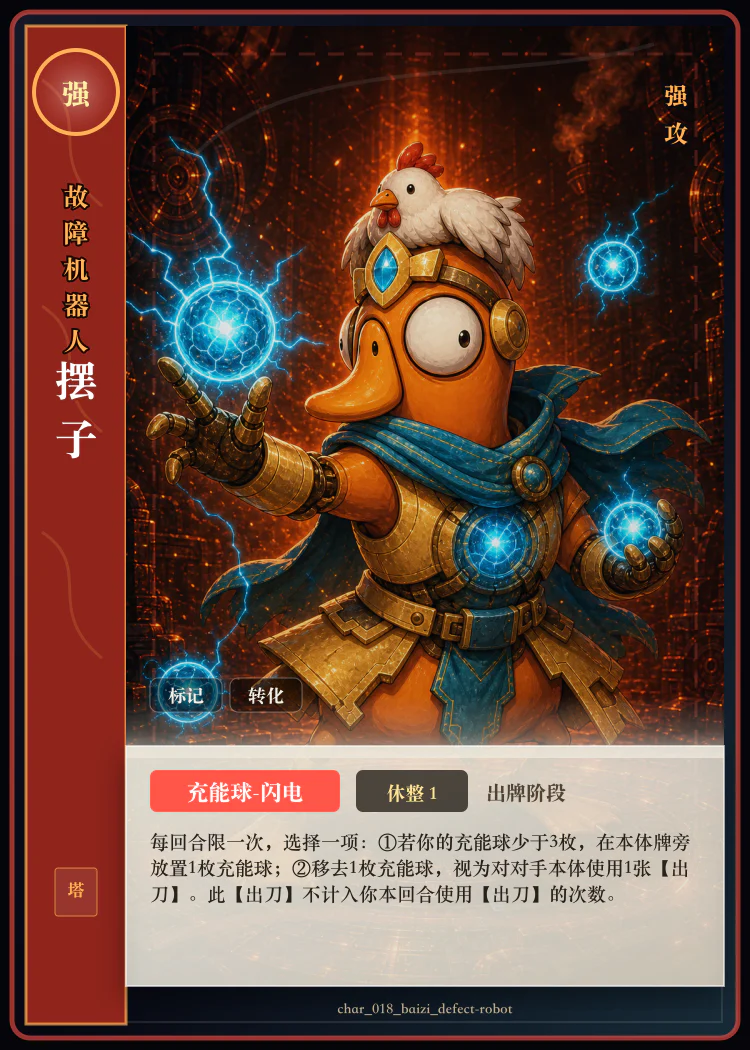
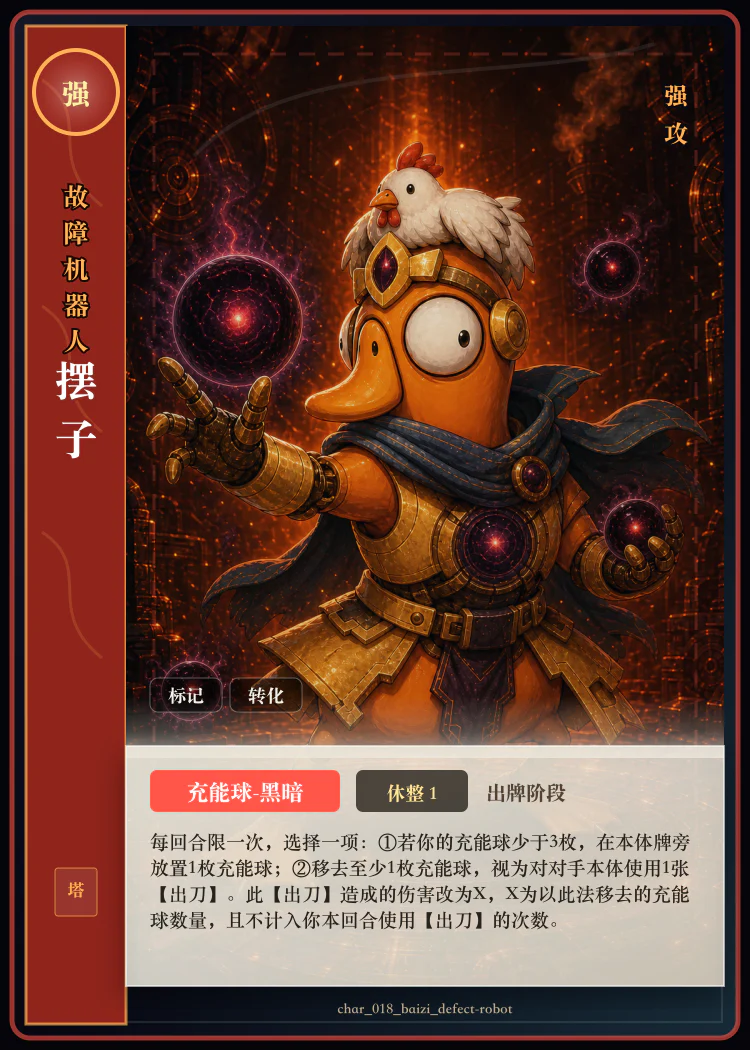
feat(cards): 重做故障机器人充能球体系

diff --git a/src/lib/deck-guides.ts b/src/lib/deck-guides.ts
@@ -64,10 +64,10 @@ export const deckGuides: Record<string, DeckGuide> = {
   },
   deck_trans_001: {
     title: "拟态补位路线",
-    flow: ["宣言转化", "积攒充能球", "激发闪电或等离子", "触发拟态核心", "Mega 后连续补位"],
+    flow: ["宣言转化", "积攒充能球", "激发黑暗或等离子", "触发拟态核心", "Mega 后连续补位"],
     priorities: [
       "优先保留能把牌视为其他牌使用或打出的角色，它们是临时补位链的起点。",
-      "三张故障机器人共享至多3枚充能球：没有合适目标时先充能，需要展开时再转化为减伤、虚拟【出刀】或技能降费。",
+      "三张故障机器人共享至多3枚充能球：没有合适目标时先充能，需要展开时再转化为减伤、蓄能黑暗【出刀】或技能降费。",
       "转化前注意预留角色位；临时补位会直接从角色牌堆顶暗置上阵。",
       "临时角色可以发动技能或支付休整费用；若未离场，会在结束阶段自动休整。",
     ],

diff --git a/playtest/changelog.md b/playtest/changelog.md
@@ -1,8 +1,14 @@
 # Changelog
 
-## 2026-08-09 忍者-绫珑技能重做
+## 2026-08-10 故障机器人充能球体系调整
 
-- 重做【忍者-绫珑】：费用由【休整1】改为【休整自身】，技能更名为【雾隐磨刃】。当对手在己方回合内使用手牌响应己方使用的牌后，可从共用手牌弃牌区回收1张【出刀】。
+- 【故障机器人-摆子】由闪电球改为黑暗球：可一次移去任意数量的充能球，视为使用伤害等于移去数量的【出刀】，表现黑暗球的蓄能爆发。
+- 【故障机器人-绫珑】由【系统重置】重做为闪电球：移去充能球后，令本回合下一次己方其他角色技能结算附带1点伤害，强化支援定位。
+- 四张故障机器人现在分别对应冰霜、黑暗、等离子与闪电充能球；仍共用同一种充能球标记，角色主定位及六类数量均不改变。
+
+## 2026-08-10 忍者-绫珑技能重做
+
+- 重做【忍者-绫珑】：费用由【休整1】改为【休整自身】，技能更名为【雾隐磨刃】。当对手于己方出牌阶段使用手牌响应己方使用的牌后，本出牌阶段可额外使用1张【出刀】。
 
 ## 2026-07-16 大小王与手牌单标签
 

diff --git a/playtest/balance-notes.md b/playtest/balance-notes.md
@@ -51,7 +51,8 @@
 
 ### 新机制
 - 三张【故障机器人】共享的充能球上限为3枚；需测试“先充能、后使用”的节奏是否过慢，以及三张同时上阵时是否过于稳定。
-- 【充能球-闪电】产生的虚拟【出刀】可触发【拟态核心】且不计入通常的出刀次数，需测试与Mega补位形成的连续进攻强度。
+- 【充能球-黑暗】可将至多3枚充能球转化为对应伤害的【出刀】，既能被【闪避】响应，又可触发【拟态核心】且不计入通常的出刀次数；需测试其蓄能爆发与Mega补位形成的连续进攻强度。
+- 【充能球-闪电】需要先充能、再由己方其他角色发动技能才能造成1点伤害；需测试这条支援链是否过慢，以及直伤是否容易绕过防御体系。
 - 【充能球-等离子】只降低下一次【休整X】费用；需测试降至0后角色留场是否会与无次数限制的角色技能形成异常循环。
 - 炸弹标记是否需要独立规则说明。
 - 角色移出游戏（鹈鹕）和退场的区别是否需要在 rules.md 中补充。

diff --git a/docs/archetypes.md b/docs/archetypes.md
@@ -21,7 +21,7 @@
 ## 变通组 / 拟态流
 
 - **关键词：** 转化、拟态、宣言、充能球、变通。
-- **玩法：** 宣言转化→视为打出→临时暗置上阵角色；故障机器人可积攒共享充能球，将其转化为减伤、虚拟【出刀】或技能降费；Mega后降低临时角色的【休整X】费用。
+- **玩法：** 宣言转化→视为打出→临时暗置上阵角色；故障机器人可积攒共享充能球，将其转化为减伤、蓄能黑暗【出刀】或技能降费；Mega后降低临时角色的【休整X】费用。
 - **风险：** 操作链长、需要先积攒充能球、怕被弃牌或角色控制干扰。
 
 ## 执棋组 / 调度流
